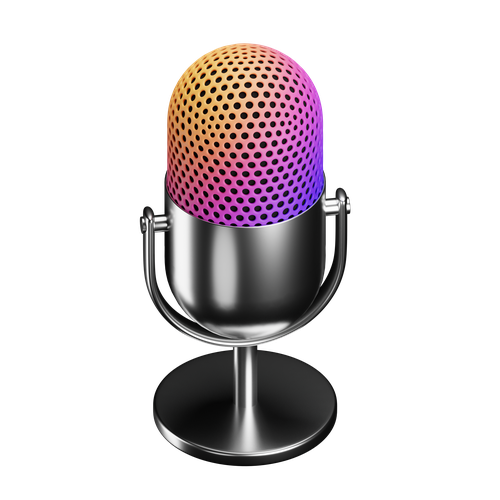
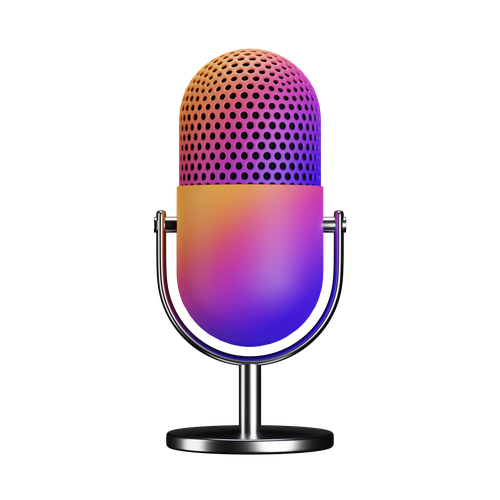
.

Changed region(s): [[0.27, 0.06, 0.72, 0.96]]

diff --git a/frontend/src/components/commonfiles/TabBar/PrimaryTabBar.tsx b/frontend/src/components/commonfiles/TabBar/PrimaryTabBar.tsx
@@ -4,6 +4,7 @@ export interface PrimaryTabItem {
   key: string
   label: string
   Icon: string
+  activeIcon?: string 
   badge?: string
 }
 
@@ -19,48 +20,49 @@ interface TabCardProps extends Omit<PrimaryTabItem, 'key'> {
   onClick: (key: string, el: HTMLButtonElement) => void
 }
 
-const TabCard = memo(({ tabKey, label, Icon, badge, isActive, onClick }: TabCardProps) => (
-  <button
-    type="button"
-    role="tab"
-    aria-selected={isActive}
-    id={`tab-${tabKey}`}
-    aria-controls={`panel-${tabKey}`}
-    onClick={(e) => onClick(tabKey, e.currentTarget)}
-    className={`relative shrink-0 flex flex-col items-center justify-center gap-0.5 transition-all duration-300 outline-none cursor-pointer w-18 h-18 px-1 py-1 rounded-[18px] ${
-      isActive
-        ? 'bg-linear-to-b from-[#FAF7FF] to-[#F2EAFF] shadow-[0_4px_16px_rgba(124,58,237,0.18)] border border-[#C4B5FD] -py-2'
-        : 'bg-transparent border border-gray-200'
-    }`}
-  >
-    {badge && (
-      <span className="absolute -top-1 left-1/2 -translate-x-1/2 whitespace-nowrap text-[9px] font-semibold px-1.5 py-0.5 rounded-full bg-[#7C3AED] text-white leading-none z-10">
-        {badge}
-      </span>
-    )}
+const TabCard = memo(({ tabKey, label, Icon, activeIcon, badge, isActive, onClick }: TabCardProps) => {
+  const currentIcon = isActive && activeIcon ? activeIcon : Icon
 
-    <span className={`flex items-center justify-center transition-all duration-300 ${isActive ? 'h-8 w-8 text-[22px]' : 'h-7 w-7 text-[20px]'}`}>
-      {Icon.includes('/') || Icon.includes('.png') ? (
-        <img src={Icon} alt={`${label} icon`} className="w-full h-full object-contain" />
-      ) : (
-        <span>{Icon}</span>
-      )}
-    </span>
-    
-    <span
-      title={label}
-      className={`w-full px-0.5 text-[10px] leading-[1.2] text-center line-clamp-2 wrap-break-word transition-all duration-300 ${
-        isActive ? 'font-semibold text-[#7C3AED]' : 'font-medium text-[#374151]'
+  return (
+    <button
+      type="button"
+      role="tab"
+      aria-selected={isActive}
+      id={`tab-${tabKey}`}
+      tabIndex={isActive ? 0 : -1}
+      aria-controls={`panel-${tabKey}`}
+      onClick={(e) => onClick(tabKey, e.currentTarget)}
+      className={`relative shrink-0 flex flex-col items-center justify-center gap-0.5 transition-all duration-300 outline-none cursor-pointer w-18 h-18 px-1 py-1 rounded-[18px] ${
+        isActive
+          ? 'bg-linear-to-r from-[#7C3AED] to-[#EC4899] shadow-[0_4px_16px_rgba(124,58,237,0.18)]'
+          : 'bg-transparent border border-gray-200'
       }`}
     >
-      {label}
-    </span>
+      {badge && (
+        <span className="absolute -top-1 left-1/2 -translate-x-1/2 whitespace-nowrap text-[9px] font-semibold px-1.5 py-0.5 rounded-full bg-[#7C3AED] text-white leading-none z-10">
+          {badge}
+        </span>
+      )}
 
-    {isActive && (
-      <span className="absolute bottom-0 left-1/2 -translate-x-1/2 w-8 h-1 bg-[#7C3AED] rounded-t-md" />
-    )}
-  </button>
-))
+      <span className={`flex items-center justify-center transition-all duration-300 ${isActive ? 'h-8 w-8 text-[22px]' : 'h-7 w-7 text-[20px]'}`}>
+        {currentIcon.includes('/') || currentIcon.includes('.png') ? (
+          <img src={currentIcon} alt="" className="w-full h-full object-contain" />
+        ) : (
+          <span>{currentIcon}</span>
+        )}
+      </span>
+      
+      <span
+        title={label}
+        className={`w-full px-0.5 text-[10px] leading-[1.2] text-center line-clamp-2 wrap-break-word transition-all duration-300 ${
+          isActive ? 'font-semibold text-white' : 'font-medium text-[#374151]'
+        }`}
+      >
+        {label}
+      </span>
+    </button>
+  )
+})
 
 TabCard.displayName = 'TabCard'
 
@@ -78,21 +80,20 @@ export const PrimaryTabBar = memo(function PrimaryTabBar({ tabs, active, onChang
   }, [onChange])
 
   return (
-    <div className="relative bg-white">
+    <div role="tablist" aria-label="Primary Navigation" className="bg-white">
       <div
         ref={scrollRef}
-        role="tablist"
-        aria-orientation="horizontal"
         className="relative z-10 flex items-center gap-1.5 overflow-x-auto px-2 py-2 [&::-webkit-scrollbar]:hidden [-ms-overflow-style:none] scrollbar-none"
       >
-        {tabs.map(({ key, label, Icon, badge }) => (
+        {tabs.map((tab) => (
           <TabCard
-            key={key}
-            tabKey={key}
-            label={label}
-            Icon={Icon}
-            badge={badge}
-            isActive={key === active}
+            key={tab.key}
+            tabKey={tab.key}
+            label={tab.label}
+            Icon={tab.Icon}
+            activeIcon={tab.activeIcon}
+            badge={tab.badge}
+            isActive={tab.key === active}
             onClick={handleClick}
           />
         ))}
@@ -101,4 +102,4 @@ export const PrimaryTabBar = memo(function PrimaryTabBar({ tabs, active, onChang
   )
 })
 
-export default PrimaryTabBar
+export default PrimaryTabBar;

diff --git a/frontend/src/components/commonfiles/sidebar/data.tsx b/frontend/src/components/commonfiles/sidebar/data.tsx
@@ -1,10 +1,18 @@
-import type { SubTabItem } from '../TabBar/SubTabBar'
-import micPurple from './Images/mic1.png' 
+import type { SubTabItem } from '../TabBar/SubTabBar' 
+
+import micPurple from './Images/mic.png' 
 import activityIcon from './Images/activity.png'
 import learnIcon from './Images/learn.png'
 import spotlightIcon from './Images/spotlight.png'
 import directoryIcon from './Images/directory.png'
 import cityIcon from './Images/city.png'
+
+import micWhite from './Images1/mic1.png'
+import activityWhite from './Images1/activity1.png'
+import learnWhite from './Images1/learn1.png'
+import spotlightWhite from './Images1/spotlight1.png'
+import directoryWhite from './Images1/directory1.png'
+import cityWhite from './Images1/city1.png'
 
 export type NavKey =
   | 'activityBoard'
@@ -22,21 +30,16 @@ export interface NavItem {
   key: NavKey
   label: string
   Icon: string
+  activeIcon?: string 
   hasArrow?: boolean
   subTabs?: SubTabItem[]
 }
 
 export const NAV_ITEMS: NavItem[] = [
-  { key: 'podcasts',      label: 'RED Expert',     Icon: micPurple },
-  { key: 'activityBoard', label: 'Activity Board', Icon: activityIcon },
-  { key: 'learn',         label: 'Learn',          Icon: learnIcon },
-  { key: 'spotlight',     label: 'Spotlight',      Icon: spotlightIcon },
-  { key: 'directory',     label: 'Directory',      Icon: directoryIcon },
-  { key: 'cityInventory', label: 'City Inventory', Icon: cityIcon }
-
-/*   { key: 'activityBoard', label: 'Activity Board', Icon: '📢' },
-  { key: 'learn',         label: 'Learn',          Icon: '📖' },
-  { key: 'spotlight',     label: 'Spotlight',      Icon: '▶️' },
-  { key: 'directory',     label: 'Directory',      Icon: '📇' },
-  { key: 'cityInventory', label: 'City Inventory', Icon: '🏛️' } */
+  { key: 'podcasts',      label: 'RED Expert',     Icon: micPurple,     activeIcon: micWhite },
+  { key: 'activityBoard', label: 'Activity Board', Icon: activityIcon,  activeIcon: activityWhite },
+  { key: 'learn',         label: 'Learn',          Icon: learnIcon,     activeIcon: learnWhite },
+  { key: 'spotlight',     label: 'Spotlight',      Icon: spotlightIcon, activeIcon: spotlightWhite },
+  { key: 'directory',     label: 'Directory',      Icon: directoryIcon, activeIcon: directoryWhite },
+  { key: 'cityInventory', label: 'City Inventory', Icon: cityIcon,      activeIcon: cityWhite }
 ]